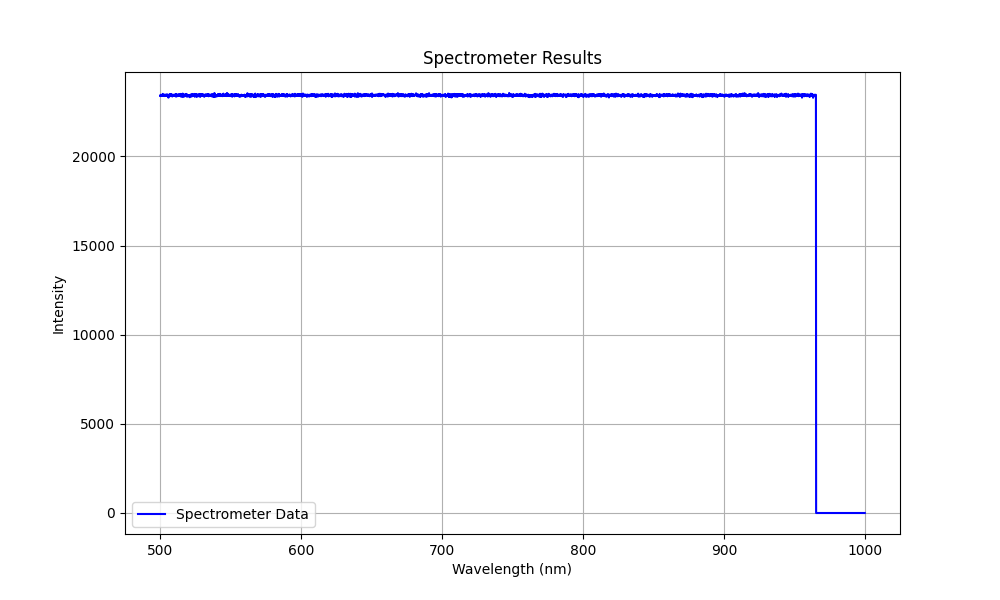
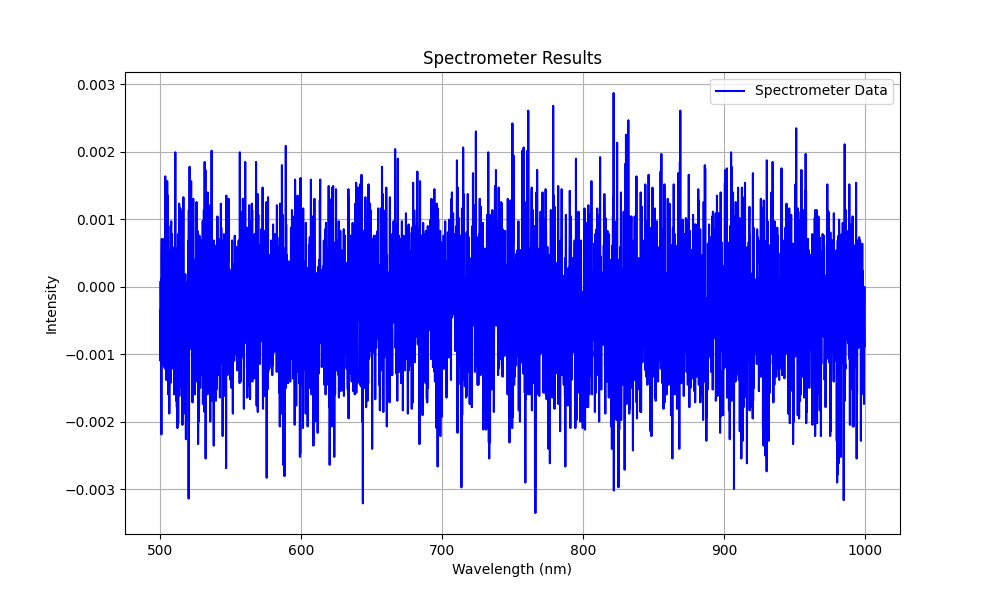
Added "read_eeprom" method and processing for raw data

diff --git a/ccsDrv.py b/ccsDrv.py
@@ -11,7 +11,6 @@ class CCSDRV:
         self.io = None
         self.dev = None
 
-
     def open(self, vid=0x1313, pid=0x8087):
         """Opens a connection through LLIO.
 
@@ -25,6 +24,7 @@ class CCSDRV:
 
         # Set default integration time
         assert self.set_integration_time(const.CCS_SERIES_DEF_INT_TIME)
+
 
 
     def get_integration_time(self):
@@ -152,6 +152,7 @@ class CCSDRV:
 
     def get_raw_scan_data(self):
         """Get raw scan data for a single scan from the device buffer
+        The scan is sent from the device in uint16 with size CCS_SERIES_NUM_RAW_PIXELS
 
         Returns:
             np.array(np.uint16): raw scan data
@@ -166,13 +167,49 @@ class CCSDRV:
 
         return readTo
 
+    # FIXME: remove self and create an abstraction layer to get scan data.
+    def acquire_raw_scan_data(self, raw):
+        # Initialize array for modified data
+        data = np.zeros(const.CCS_SERIES_NUM_PIXELS, dtype=np.float64)    
+
+        # Sum the dark pixels
+        dark_com = np.sum(raw[const.DARK_PIXELS_OFFSET:const.DARK_PIXELS_OFFSET + const.NO_DARK_PIXELS])
+
+        # Calculate dark current average
+        dark_com /= const.NO_DARK_PIXELS
+
+        # Calculate normalizing factor
+        norm_com = 1.0 / (const.MAX_ADC_VALUE - dark_com)
+
+        # Process raw data
+        for i in range(const.CCS_SERIES_NUM_PIXELS):
+            data[i] = (raw[const.SCAN_PIXELS_OFFSET + i] - dark_com) * norm_com
+
+        return data
 
 
+    def read_eeprom(self, addr, idx, length):
 
+        # Buffers
+        data = bytearray()
+        remaining = length
+        address = addr
 
+        while remaining > 0:
+            # Determine how many bytes to transfer
+            transfer_length = min(remaining, const.ENDPOINT_0_TRANSFERSIZE)
+            buffer = usb.util.create_buffer(transfer_length)
+            
+            # Read from EEPROM
+            self.io.control_in(const.CCS_SERIES_RCMD_READ_EEPROM, readTo=buffer, wValue=address, wIndex=idx)
+   
 
+            # Append read data to buffer
+            data.extend(buffer)
+            
+            # Update counters
+            address += transfer_length
+            remaining -= transfer_length
 
-
-
-
+        return data
 

diff --git a/test.py b/test.py
@@ -4,9 +4,32 @@ import const
 import numpy as np
 import matplotlib.pyplot as plt
 
-def plot(data: array):
+def plotRaw(data: array):
     # Ensure the number of points matches your data length
     num_points = const.CCS_SERIES_NUM_RAW_PIXELS
+    if len(data) != num_points:
+        raise ValueError("Data length does not match the number of raw pixels")
+
+    # Generate wavelengths from 500nm to 1000nm
+    wavelengths = np.linspace(500, 1000, num_points)
+    intensities = data
+
+    # Plot the spectrometer data
+    plt.figure(figsize=(10, 6))
+    plt.plot(wavelengths, intensities, label='Spectrometer Data', color='blue')
+    plt.xlabel('Wavelength (nm)')
+    plt.ylabel('Intensity')
+    plt.title('Spectrometer Results')
+    plt.legend()
+    plt.grid(True)
+
+    # Save the plot as a PNG file
+    plt.savefig('spectrometer_results_raw.png')
+    print("Plot saved as 'spectrometer_results_raw.png'")
+
+def plot(data: array):
+    # Ensure the number of points matches your data length
+    num_points = const.CCS_SERIES_NUM_PIXELS
     if len(data) != num_points:
         raise ValueError("Data length does not match the number of raw pixels")
 
@@ -35,8 +58,13 @@ def head(data):
 device = CCSDRV()
 device.open()
 print(device.get_integration_time())
-print(device.get_device_status())
+print(f"Dev status: {device.get_device_status()}")
 device.start_scan()
-print(device.get_device_status())
-device.get_raw_scan_data()
-print(device.get_device_status())  
+print(f"Dev status: {device.get_device_status()}")
+raw = device.get_raw_scan_data()
+print(f"Dev status: {device.get_device_status()}")
+plotRaw(raw)
+data = device.acquire_raw_scan_data(raw)
+print(f"Dev status: {device.get_device_status()}")
+plot(data)
+

diff --git a/lowLevel.py b/lowLevel.py
@@ -47,7 +47,7 @@ class LLIO:
         try:
             self.dev.read(self.bulk_in_pipe, readTo, timeout=self.timeout)
         except usb.core.USBError as e:
-            raise usb.core.USBError(e)
+            print(f"USB error in read_raw: {e}")
         
 
     def control_out(self, bRequest, payload, bmRequestType = 0x40, wValue = 0, wIndex= 0):
@@ -63,7 +63,7 @@ class LLIO:
         try:
             self.dev.ctrl_transfer(bmRequestType, bRequest, wValue, wIndex, payload, timeout=self.timeout)
         except usb.core.USBError as e:
-            raise usb.core.USBError(e)
+            print(f"USB error in control_out: {e}")
 
         
     def control_in(self, bRequest, readTo: array, bmRequestType = 0xC0, wValue = 0, wIndex= 0):
@@ -80,7 +80,7 @@ class LLIO:
         try:
             self.dev.ctrl_transfer(bmRequestType, bRequest, wValue, wIndex, readTo, timeout=self.timeout)
         except usb.core.USBError as e:
-            raise usb.core.USBError(e)
+            print(f"USB error in control_in: {e}")
 
     
 

diff --git a/const.py b/const.py
@@ -49,6 +49,12 @@ CCS_SERIES_NUM_VERSION_BYTES = 3
 
 # Specifics
 CCS_SERIES_NUM_RAW_PIXELS = 3694
+ENDPOINT_0_TRANSFERSIZE = 64
+CCS_SERIES_NUM_PIXELS = 3648 
+NO_DARK_PIXELS = 12
+DARK_PIXELS_OFFSET = 16
+SCAN_PIXELS_OFFSET = 32
+MAX_ADC_VALUE = 0xFFFF
 
 # LLIO constants
 LL_DEFAULT_BULK_PIPE = 0x86    # This works and finds scan data
